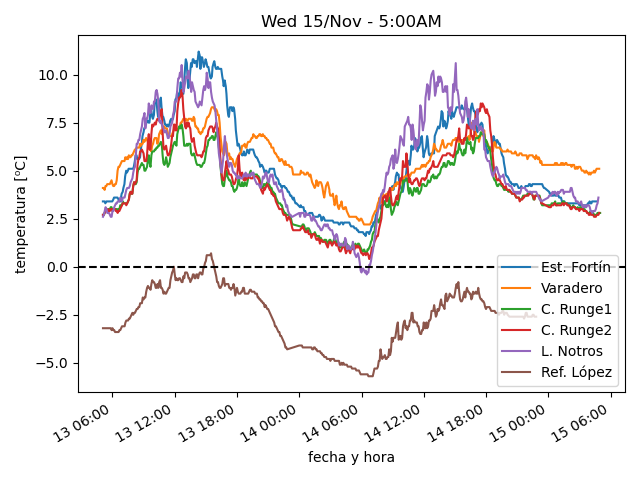
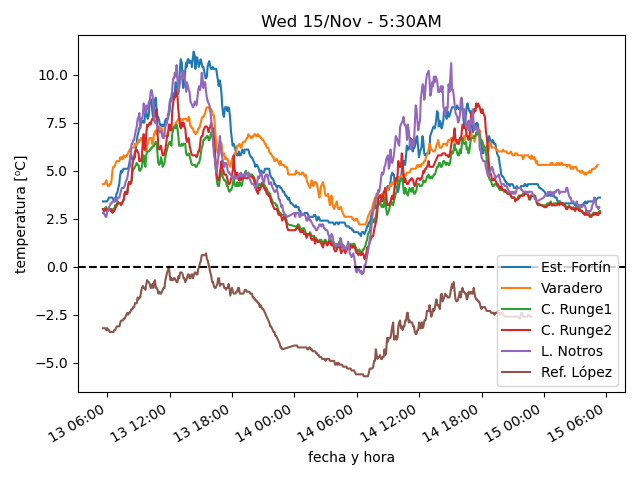
actualiza datos

diff --git a/estaciones/estacion2.html b/estaciones/estacion2.html
@@ -18,32 +18,32 @@
     </tr>
     <tr>
      <td class="stats_data">
-      4:54AM
+      5:09AM
      </td>
     </tr>
     <tr>
      <td class="stats_data">
-      5.1⁰C
+      5.3⁰C
      </td>
     </tr>
     <tr>
      <td class="stats_data">
-      1.9⁰C
+      2.5⁰C
      </td>
     </tr>
     <tr>
      <td class="stats_data">
-      80.3%
+      82.0%
      </td>
     </tr>
     <tr>
      <td class="stats_data">
-      1014.53hPa
+      1014.43hPa
      </td>
     </tr>
     <tr>
      <td class="stats_data">
-      40.5/47.2 km/hr NW
+      37.2/45.5 km/hr NW
      </td>
     </tr>
     <tr>

diff --git a/estaciones/estacion3.html b/estaciones/estacion3.html
@@ -18,32 +18,32 @@
     </tr>
     <tr>
      <td class="stats_data">
-      4:59AM
+      5:24AM
      </td>
     </tr>
     <tr>
      <td class="stats_data">
-      2.8⁰C
+      2.9⁰C
      </td>
     </tr>
     <tr>
      <td class="stats_data">
-      -0.2⁰C
+      -0.4⁰C
      </td>
     </tr>
     <tr>
      <td class="stats_data">
-      80.1%
+      79.2%
      </td>
     </tr>
     <tr>
      <td class="stats_data">
-      999.32hPa
+      999.02hPa
      </td>
     </tr>
     <tr>
      <td class="stats_data">
-      8.0/13.0 km/hr W
+      11.4/17.2 km/hr WNW
      </td>
     </tr>
     <tr>

diff --git a/estaciones/estacion1.html b/estaciones/estacion1.html
@@ -18,17 +18,17 @@
     </tr>
     <tr>
      <td class="stats_data">
-      4:39AM
+      5:23AM
      </td>
     </tr>
     <tr>
      <td class="stats_data">
-      3.4⁰C
+      3.6⁰C
      </td>
     </tr>
     <tr>
      <td class="stats_data">
-      -2.6⁰C
+      -2.4⁰C
      </td>
     </tr>
     <tr>
@@ -38,12 +38,12 @@
     </tr>
     <tr>
      <td class="stats_data">
-      1009.14hPa
+      1008.81hPa
      </td>
     </tr>
     <tr>
      <td class="stats_data">
-      13.9/36.5 km/hr WNW
+      26.5/30.6 km/hr W
      </td>
     </tr>
     <tr>

diff --git a/estaciones/estacion4.html b/estaciones/estacion4.html
@@ -18,7 +18,7 @@
     </tr>
     <tr>
      <td class="stats_data">
-      4:54AM
+      5:24AM
      </td>
     </tr>
     <tr>
@@ -28,22 +28,22 @@
     </tr>
     <tr>
      <td class="stats_data">
-      -1.1⁰C
+      -1.2⁰C
      </td>
     </tr>
     <tr>
      <td class="stats_data">
-      75.9%
+      75.3%
      </td>
     </tr>
     <tr>
      <td class="stats_data">
-      1008.13hPa
+      1007.82hPa
      </td>
     </tr>
     <tr>
      <td class="stats_data">
-      5.9/9.3 km/hr SW
+      4.6/7.4 km/hr SW
      </td>
     </tr>
     <tr>

diff --git a/estaciones/estacion5.html b/estaciones/estacion5.html
@@ -18,27 +18,27 @@
     </tr>
     <tr>
      <td class="stats_data">
-      4:50AM
+      5:20AM
      </td>
     </tr>
     <tr>
      <td class="stats_data">
-      3.6⁰C
+      3.1⁰C
      </td>
     </tr>
     <tr>
      <td class="stats_data">
-      -1.6⁰C
+      -0.8⁰C
      </td>
     </tr>
     <tr>
      <td class="stats_data">
-      69.0%
+      76.0%
      </td>
     </tr>
     <tr>
      <td class="stats_data">
-      1011.92hPa
+      1012.02hPa
      </td>
     </tr>
     <tr>
